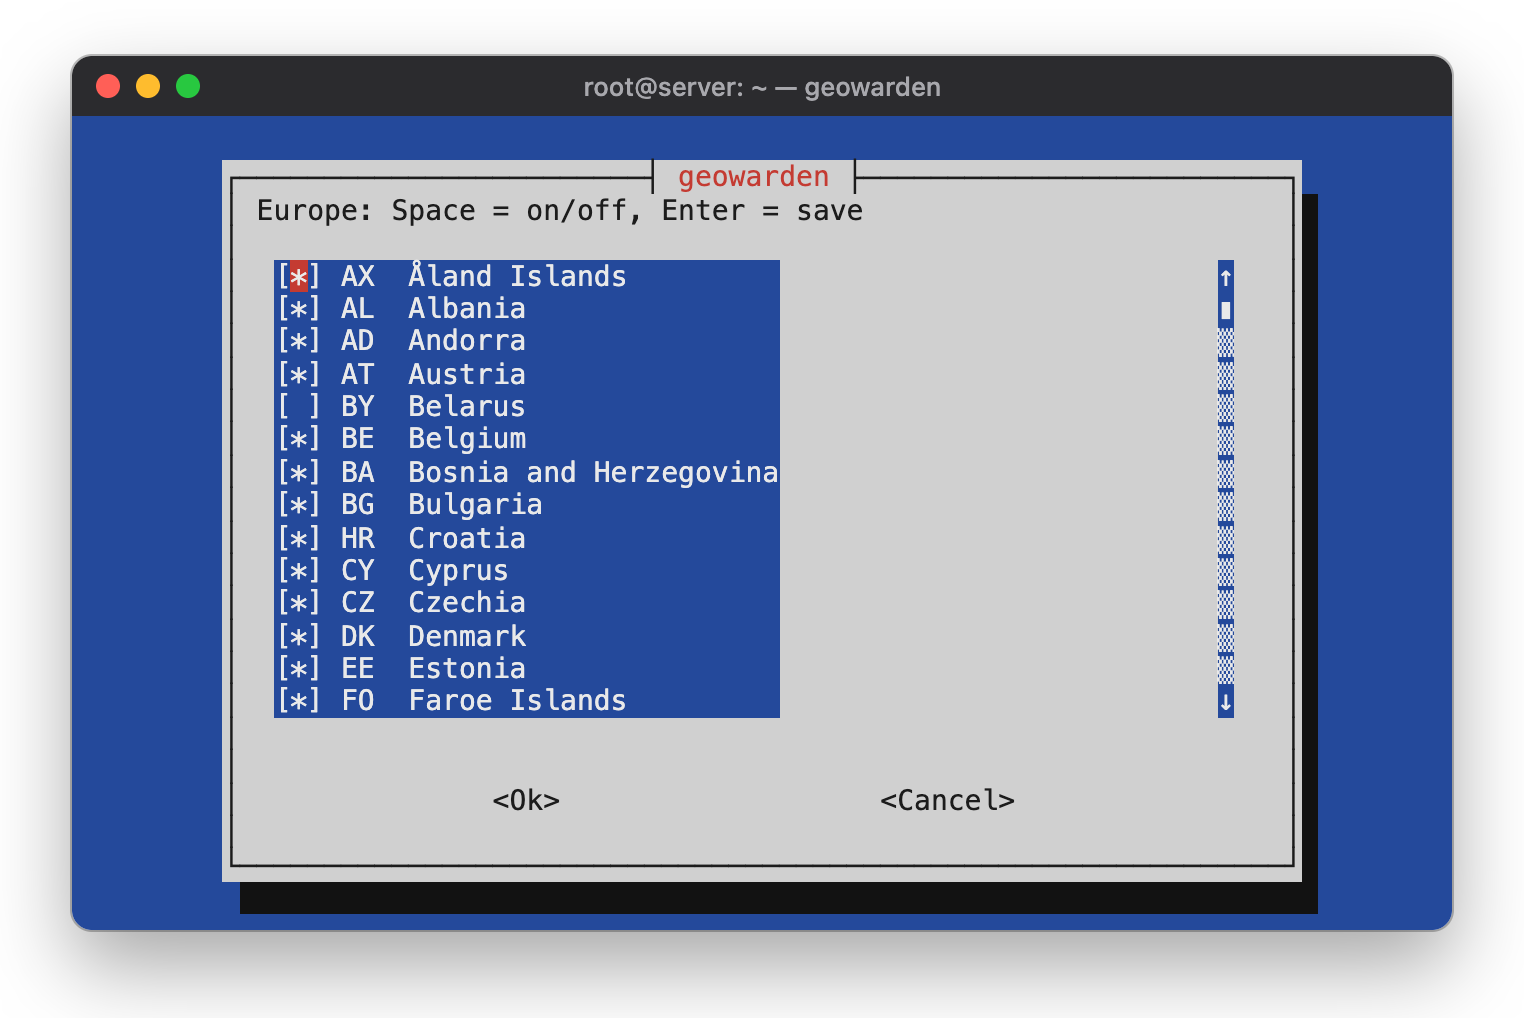
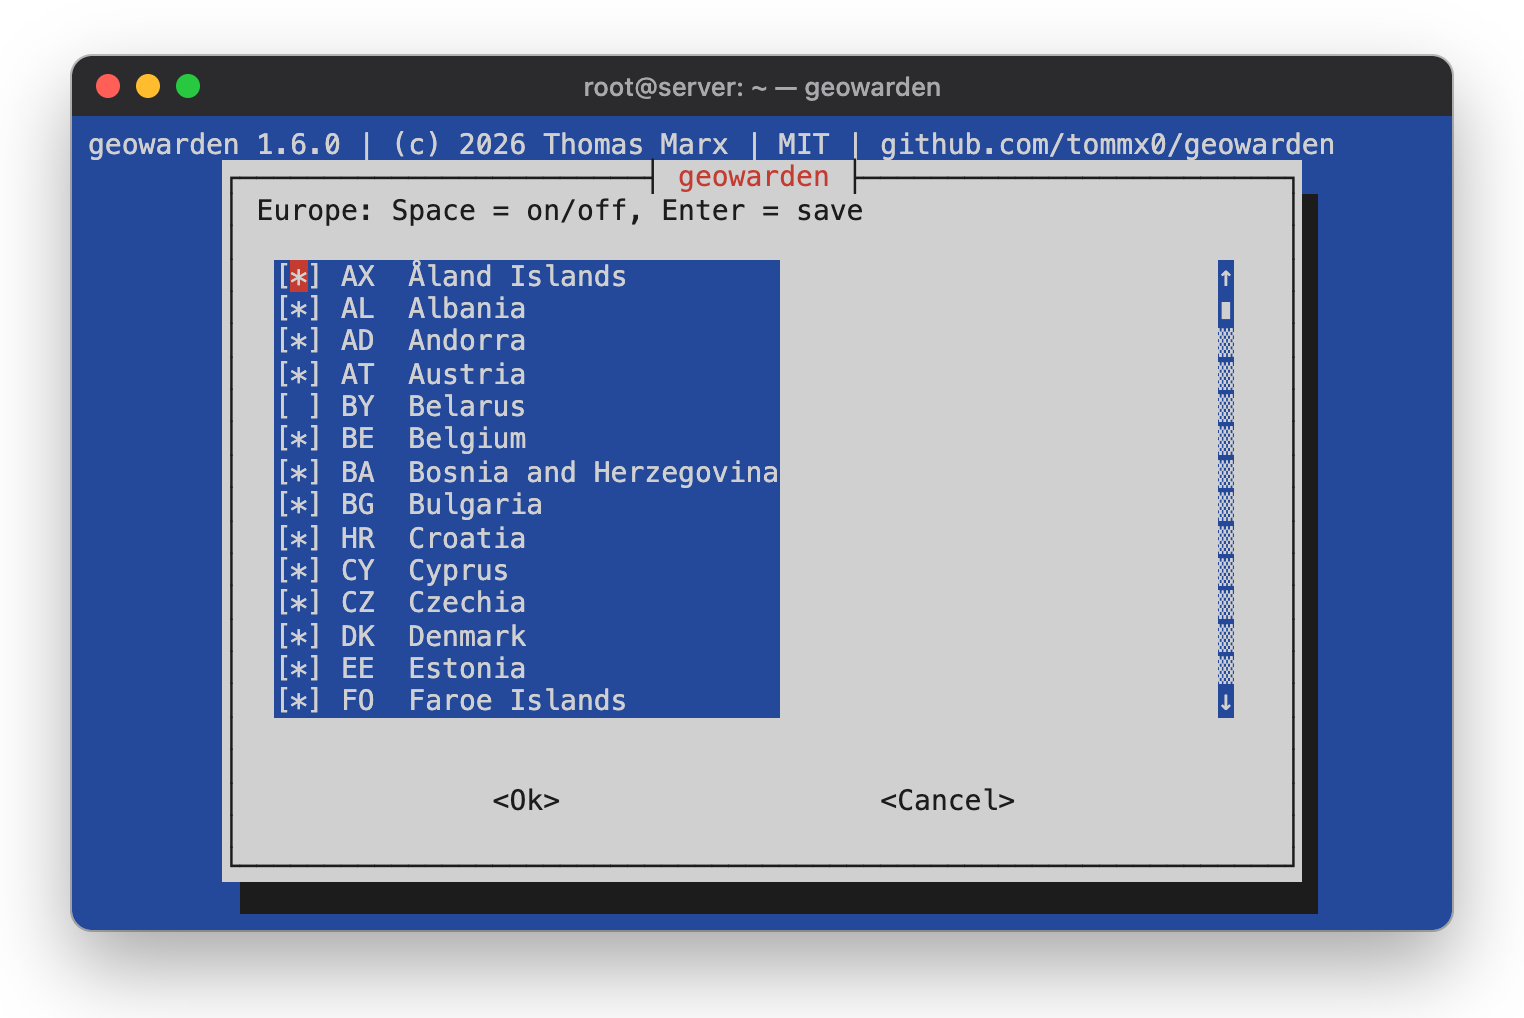
README: screenshots of 1.6.0
Retake all screenshots with geowarden 1.6.0: the main menu now shows
the version line and the entries "Blocked networks" and "Live view",
and the top 10 addresses show the scanner and blocked-network marks.

New screenshots of the live view, the suspicious networks and the
blocked networks.

The demo data now uses 198.18.0.0/15 (RFC 2544) instead of the three
IPv4 documentation /24s, which are too small for the scanner hint.

diff --git a/README.md b/README.md
@@ -50,11 +50,22 @@ Everything else is dropped before it reaches SSH, your web server or your Docker
     <td colspan="2"><img src="docs/screenshots/top-addresses.png" alt="Top 10 allowed and blocked addresses"></td>
   </tr>
   <tr>
-    <td colspan="2" align="center"><sub>Top 10 source addresses overall, with their country</sub></td>
+    <td colspan="2" align="center"><sub>Top 10 source addresses overall, with their country: <code>!</code> suspected scanner, <code>x</code> in the blocked networks</sub></td>
+  </tr>
+  <tr>
+    <td colspan="2"><img src="docs/screenshots/suspicious-networks.png" alt="Suspicious networks with many different source addresses"></td>
+  </tr>
+  <tr>
+    <td colspan="2" align="center"><sub>Suspicious networks: many different addresses from one block hint at a scanner</sub></td>
   </tr>
 </table>
 
-<sub>The statistics screenshots show demo data with documentation addresses (RFC 5737 and RFC 3849).</sub>
+<p align="center">
+  <img src="docs/screenshots/live-view.png" alt="Live view with blinking countries and the last 10 requests" width="820">
+  <br><sub>Live view: countries of new requests blink on the map, the last 10 requests are listed below</sub>
+</p>
+
+<sub>The statistics screenshots show demo data with reserved addresses (198.18.0.0/15 from RFC 2544 and 2001:db8::/32 from RFC 3849).</sub>
 
 <table>
   <tr>
@@ -62,14 +73,16 @@ Everything else is dropped before it reaches SSH, your web server or your Docker
     <td><img src="docs/screenshots/continents.png" alt="Choosing a continent"></td>
   </tr>
   <tr>
-    <td align="center"><sub>Status: rules loaded, blocked packets, geo data, allowed countries per continent</sub></td>
+    <td align="center"><sub>Status: rules loaded, requests, geo data, blocked networks, allowed countries per continent</sub></td>
     <td align="center"><sub>Edit countries by continent</sub></td>
   </tr>
   <tr>
-    <td colspan="2"><img src="docs/screenshots/countries.png" alt="Selecting individual countries in Europe"></td>
+    <td><img src="docs/screenshots/countries.png" alt="Selecting individual countries in Europe"></td>
+    <td><img src="docs/screenshots/blocked-networks.png" alt="List of blocked networks"></td>
   </tr>
   <tr>
-    <td colspan="2" align="center"><sub>Tick individual countries with the space bar</sub></td>
+    <td align="center"><sub>Tick individual countries with the space bar</sub></td>
+    <td align="center"><sub>Blocked networks: always dropped, whatever their country</sub></td>
   </tr>
 </table>
 
